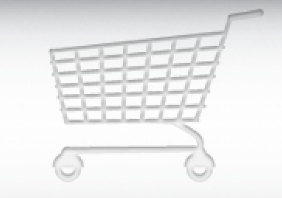
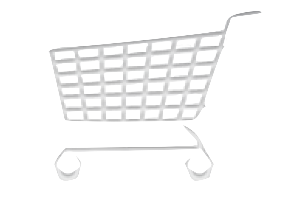
bug fixes! few design changes

diff --git a/Restaurant/MainMenuViewController.m b/Restaurant/MainMenuViewController.m
@@ -403,7 +403,10 @@
         if (self.arrayOfObjects.count == 0)
         {
             PickerViewCell *viewForRow;
-            UIImageView *one = [[UIImageView alloc] initWithImage:[UIImage imageNamed:@"Cart.png"]];
+            UIImageView *one = [[UIImageView alloc] initWithImage:[UIImage imageNamed:@"shopping-cart.png"]];
+//            one.frame = self.pickerView.frame;
+//            one.frame = CGRectMake(self.pickerView.frame.origin.x + 100, self.pickerView.frame.origin.y + 100, self.pickerView.frame.size.width,self.pickerView.frame.size.height);
+            
             //NSArray* ballsArray = [NSArray arrayWithObjects:one, nil];
             viewForRow = (PickerViewCell *)one;
             return viewForRow;
@@ -684,7 +687,7 @@
             NSString *price = [formatter stringFromNumber:[NSNumber numberWithFloat:(productStruct.price.floatValue * [[[NSUserDefaults standardUserDefaults] objectForKey:@"CurrencyCoefficient"] floatValue])]];
             NSString *priceString = [NSString stringWithFormat:@"%@ %@", price, [[NSUserDefaults standardUserDefaults] objectForKey:@"Currency"]];
             
-            [[_arrayOfObjects objectAtIndex:indexPath.row] setPrice:price];
+            //[[self.arrayOfObjects objectAtIndex:indexPath.row] setPrice:price];
             
             cell.productPrice.text = priceString;
             
@@ -724,12 +727,12 @@
             {
                 ProductDataStruct *productDataStruct = [self.arrayOfObjects objectAtIndex:i];
                 
-                sum                 = sum + [[formatter numberFromString:productDataStruct.price] floatValue];
-                sumWithDiscounts    = sumWithDiscounts + [[formatter numberFromString:productDataStruct.price] floatValue];
+                sum                 = sum + ([[formatter numberFromString:[formatter stringFromNumber:[NSNumber numberWithFloat:(productDataStruct.price.floatValue * [[[NSUserDefaults standardUserDefaults] objectForKey:@"CurrencyCoefficient"] floatValue])]]] floatValue]);
+                sumWithDiscounts    = sum;//sumWithDiscounts + [[formatter numberFromString:productDataStruct.price] floatValue];
                 totalCount          = totalCount + productDataStruct.count.intValue;
             }
             
-            cell.sumNumberLabel.text = [NSString stringWithFormat:@"%@ %@",[formatter stringFromNumber:[NSNumber numberWithFloat:sumWithDiscounts]], [[NSUserDefaults standardUserDefaults] valueForKey:@"Currency"]];
+            cell.sumNumberLabel.text = [NSString stringWithFormat:@"%@ %@",[formatter stringFromNumber:[NSNumber numberWithFloat:sum]], [[NSUserDefaults standardUserDefaults] valueForKey:@"Currency"]];
             cell.sumWithDiscountsNumberLabel.text = [NSString stringWithFormat:@"%@ %@",[formatter stringFromNumber:[NSNumber numberWithFloat:sumWithDiscounts]], [[NSUserDefaults standardUserDefaults] valueForKey:@"Currency"]];
             cell.countNumberLabel.text = [NSString stringWithFormat:@"%i", totalCount];
             

diff --git a/Restaurant/RestaurantDetailViewController.m b/Restaurant/RestaurantDetailViewController.m
@@ -52,31 +52,22 @@
     [segue.destinationViewController setCoordinates:location];
 }
 
-- (id)initWithNibName:(NSString *)nibNameOrNil bundle:(NSBundle *)nibBundleOrNil
-{
-    self = [super initWithNibName:nibNameOrNil bundle:nibBundleOrNil];
-    if (self) {
-        // Custom initialization
-    }
-    return self;
-}
-
 - (void)viewDidLoad
 {
     [super viewDidLoad];
 	workTimeDetailLabel.text = self.dataStruct.workingTime;
     telephoneDetailLabel.text = self.dataStruct.phones;
     NSData *dataOfPicture = [self.db fetchPictureDataByPictureId:self.dataStruct.idPicture];
-    NSURL *url = [self.db fetchImageURLbyPictureID:self.dataStruct.idPicture];
+//    NSURL *url = [self.db fetchImageURLbyPictureID:self.dataStruct.idPicture];
     if(dataOfPicture)
     {
         self.dataStruct.image  = [UIImage imageWithData:dataOfPicture]; 
     }
     else 
     {
-        dataOfPicture = [NSData dataWithContentsOfURL:url];
-        [self.db SavePictureToCoreData:self.dataStruct.idPicture toData:dataOfPicture];
-        self.dataStruct.image  = [UIImage imageWithData:dataOfPicture];
+//        dataOfPicture = [NSData dataWithContentsOfURL:url];
+//        [self.db SavePictureToCoreData:self.dataStruct.idPicture toData:dataOfPicture];
+        //self.dataStruct.image  = [UIImage imageWithData:dataOfPicture];
     }
     restaurantImage.image = self.dataStruct.image;
     //[self.db SavePictureToCoreData:self.dataStruct.idPicture toData:UIImagePNGRepresentation(cell.productImage.image)];

diff --git a/Restaurant/SettingsTableViewController.m b/Restaurant/SettingsTableViewController.m
@@ -49,16 +49,14 @@
     self.styleCell.detailTextLabel.text = self.typeOfView;
     
     
-    if (![[NSUserDefaults standardUserDefaults] valueForKey:@"Currency"])
-    {
-        [[NSUserDefaults standardUserDefaults] setValue:@"USD" forKey:@"Currency"];
-        [[NSUserDefaults standardUserDefaults] setValue:@"1" forKey:@"CurrencyCoefficient"];
-        self.currencyCell.detailTextLabel.text = @"USD";
-    }
-    else
-    {
-        self.currencyCell.detailTextLabel.text = [[NSUserDefaults standardUserDefaults] valueForKey:@"Currency"];
-    }
+//    if (![[NSUserDefaults standardUserDefaults] valueForKey:@"Currency"])
+//    {
+//        [[NSUserDefaults standardUserDefaults] setValue:@"USD" forKey:@"Currency"];
+//        [[NSUserDefaults standardUserDefaults] setValue:@"1" forKey:@"CurrencyCoefficient"];
+//        self.currencyCell.detailTextLabel.text = @"USD";
+//    }
+    
+    self.currencyCell.detailTextLabel.text = [[NSUserDefaults standardUserDefaults] valueForKey:@"Currency"];
     // Uncomment the following line to preserve selection between presentations.
     // self.clearsSelectionOnViewWillAppear = NO;
  

diff --git a/Restaurant/LoadAppViewController.m b/Restaurant/LoadAppViewController.m
@@ -326,6 +326,12 @@
     {
         [[NSUserDefaults standardUserDefaults] setValue:@"toFavoritesList" forKey:@"typeOfViewFavorites"];
     }
+    if (![[NSUserDefaults standardUserDefaults] valueForKey:@"Currency"])
+    {
+        [[NSUserDefaults standardUserDefaults] setValue:@"USD" forKey:@"Currency"];
+        [[NSUserDefaults standardUserDefaults] setValue:@"1" forKey:@"CurrencyCoefficient"];
+    }
+    
     if (!checkConnection.hasConnectivity)
     {
         [self performSegueWithIdentifier:@"toMain" sender:self];

diff --git a/Restaurant/RestaurantViewController.m b/Restaurant/RestaurantViewController.m
@@ -146,7 +146,7 @@
         }
     }
     
-    cell.restaurantAdress.text = dataStruct.street;
+    cell.restaurantAdress.text = dataStruct.name;
     cell.restaurantSubway.text = dataStruct.subwayStation;
     
     CAGradientLayer *gradient = [CAGradientLayer layer];
